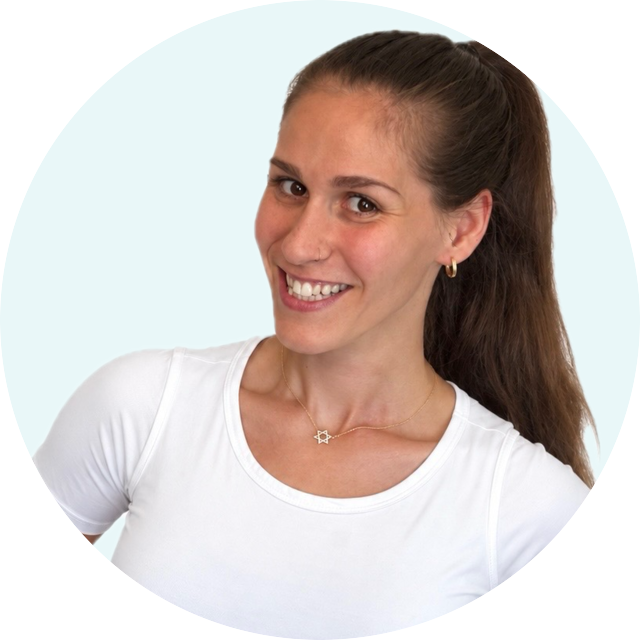
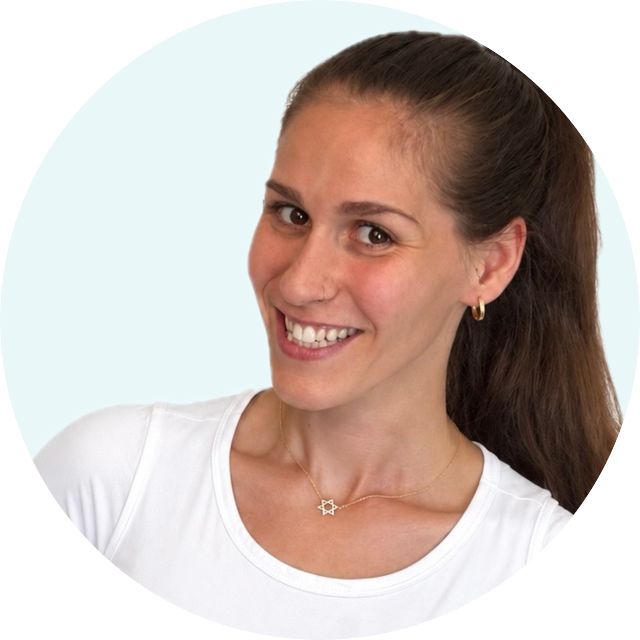
Nikki design: deep-teal monochrome palette, 'Reclaim your time' headline, face-centered headshot, teal N mark

diff --git a/style.css b/style.css
@@ -1,7 +1,7 @@
 :root {
-  --c-cyan: #6dd6da;
-  --c-cyan-light: #95d9da;
-  --c-mauve: #ae8ca3;
+  --c-cyan: #2f9ea3;
+  --c-cyan-light: #cdeef0;
+  --c-mauve: #2f9ea3;
   --c-gray-mid: #817f82;
   --c-gray-light: #a2abb5;
   --c-bg: #faf9f6;
@@ -109,7 +109,7 @@ body {
 /* Primary call-to-action in the nav — always visually obvious */
 .nav-links a.nav-cta {
   background: var(--c-cyan);
-  color: var(--c-fg);
+  color: #fff;
   padding: 0.55rem 1.2rem;
   border-radius: 999px;
   font-weight: 600;
@@ -183,9 +183,9 @@ body {
 }
 .btn-primary {
   background: var(--c-cyan);
-  color: var(--c-fg);
+  color: #fff;
 }
-.btn-primary:hover { background: #5cccd1; }
+.btn-primary:hover { background: #26858a; }
 .btn-secondary {
   background: transparent;
   color: var(--c-fg);
@@ -346,7 +346,7 @@ form input, form textarea, form select {
 form input:focus, form textarea:focus, form select:focus {
   outline: none;
   border-color: var(--c-cyan);
-  box-shadow: 0 0 0 3px rgba(109, 214, 218, 0.3);
+  box-shadow: 0 0 0 3px rgba(47, 158, 163, 0.3);
 }
 form input:user-invalid, form textarea:user-invalid,
 form input[aria-invalid="true"], form textarea[aria-invalid="true"] {

diff --git a/index.html b/index.html
@@ -73,9 +73,9 @@
   <!-- HERO -->
   <section class="hero centered" style="padding-top: 2.5rem;">
     <div class="container">
-      <h1 class="h1" style="margin-bottom: 1.75rem;">This is your time.<br><em>Reclaim it.</em></h1>
+      <h1 class="h1" style="margin-bottom: 1.75rem;">Reclaim <em>your time</em></h1>
       <img src="headshot-round.png" alt="Nikki Bildner, personal trainer" class="hero-headshot">
-      <div class="eyebrow">Women's Private Training Studio · Teaneck, NJ</div>
+      <div class="eyebrow">Women's Private Training Studio · Teaneck,&nbsp;NJ</div>
       <div class="btns" style="margin-top: 1.5rem;">
         <a href="sms:+12017052307?&body=Hi%20Nikki%21%20I%20found%20your%20website%20and%20I%27d%20love%20to%20train%20with%20you%20%F0%9F%98%8A" class="btn btn-primary btn-hero">Send me a text</a>
         <a href="#services" class="btn btn-secondary btn-hero">See what I offer</a>
